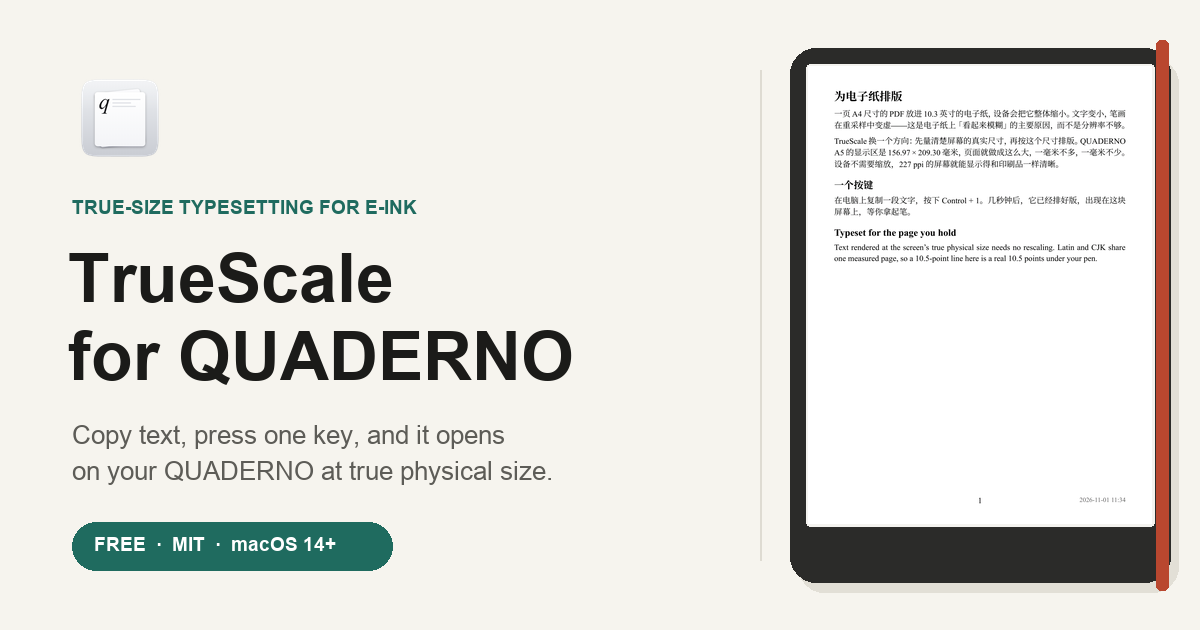
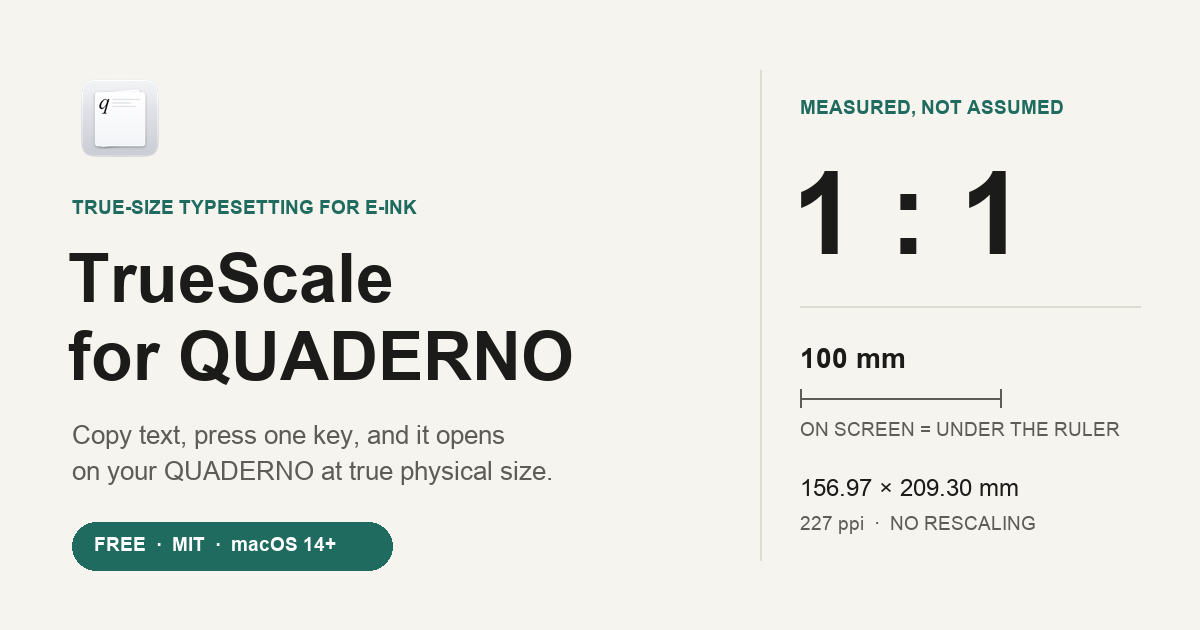
docs(site): 移除 hero 设备位图，首屏改为纯文字单栏
- 删除 figure.device 与 1404x1872 整页缩略图，连带深色粗框、橙红松紧带、重投影
- 三语 hero 清理 alt/caption 死字段；.hero 改单栏，移除 --band 与栅格残留
- og-card 改为纯文字 1:1 度量卡，不再贴缩小截图与设备外壳
- build.py --check 增加防回归断言：DOM 与 CSS 均不得重新出现设备 mockup

Changed region(s): [[0.6475, 0.0603, 0.9867, 0.9349]]

diff --git a/site/assets/site.css b/site/assets/site.css
@@ -10,7 +10,6 @@
   --rule: #dedbd2;
   --accent: #1f6b5f;
   --accent-ink: #ffffff;
-  --band: #b9472f;
   --serif: "Iowan Old Style", "Hiragino Mincho ProN", "Songti SC", Georgia, serif;
   --sans: -apple-system, BlinkMacSystemFont, "PingFang SC", "Hiragino Sans", "Helvetica Neue", sans-serif;
 }
@@ -23,12 +22,11 @@
     --rule: #34352f;
     --accent: #5fb3a3;
     --accent-ink: #0d1412;
-    --band: #e0765d;
   }
 }
 :root[data-theme="dark"] {
   --ground: #171816; --surface: #212220; --ink: #ecebe6; --muted: #a8a69f;
-  --rule: #34352f; --accent: #5fb3a3; --accent-ink: #0d1412; --band: #e0765d;
+  --rule: #34352f; --accent: #5fb3a3; --accent-ink: #0d1412;
 }
 * { box-sizing: border-box; }
 body { margin: 0; background: var(--ground); color: var(--ink); font: 17px/1.65 var(--sans); }
@@ -52,8 +50,8 @@ header { display: flex; align-items: center; justify-content: space-between; pad
 .topnav a { color: var(--muted); text-decoration: none; }
 .topnav a:hover, .topnav a:focus-visible { color: var(--accent); text-decoration: underline; }
 
-.hero { display: grid; grid-template-columns: minmax(0, 1.1fr) minmax(0, 0.9fr); gap: 56px; align-items: center; padding: 48px 0 72px; }
-.hero h1 { font: 600 clamp(36px, 5vw, 56px)/1.12 var(--serif); margin: 0 0 20px; letter-spacing: -0.01em; }
+.hero { max-width: 780px; padding: 80px 0 96px; }
+.hero h1 { font: 600 clamp(36px, 5vw, 56px)/1.12 var(--serif); margin: 0 0 20px; letter-spacing: -0.01em; max-width: 20em; }
 .hero p.lead { font-size: 20px; color: var(--muted); margin: 0 0 32px; max-width: 34em; }
 .flow { display: flex; align-items: center; gap: 10px; flex-wrap: wrap; font-size: 15px; color: var(--muted); margin-bottom: 32px; }
 .key { display: inline-flex; align-items: center; justify-content: center; min-width: 44px; height: 32px; padding: 0 10px;
@@ -65,14 +63,6 @@ header { display: flex; align-items: center; justify-content: space-between; pad
 .button.primary { background: var(--accent); color: var(--accent-ink); }
 .button.secondary { border: 1px solid var(--rule); color: var(--ink); background: var(--surface); }
 .note { font-size: 14px; color: var(--muted); margin-top: 14px; }
-
-.device { justify-self: center; width: min(100%, 380px); background: #2b2b29; padding: 22px 22px 34px; border-radius: 18px;
-  box-shadow: 0 30px 60px -30px rgba(0,0,0,.45); position: relative; }
-/* 松紧带画在右侧边框上，不遮挡屏幕内容。 */
-.device::after { content: ""; position: absolute; right: 4px; top: -6px; bottom: -6px; width: 12px; border-radius: 3px;
-  background: var(--band); opacity: .9; }
-.device img { display: block; width: 100%; height: auto; background: #f4f3ef; border-radius: 3px; }
-.device figcaption { color: #bdbbb4; font-size: 12px; text-align: center; margin-top: 12px; }
 
 section { padding: 64px 0; border-top: 1px solid var(--rule); }
 section h2 { font: 600 clamp(26px, 3.2vw, 34px)/1.25 var(--serif); margin: 0 0 14px; }
@@ -139,7 +129,7 @@ footer p { margin: 6px 0; max-width: 60em; }
   .ways { grid-template-columns: repeat(2, minmax(0, 1fr)); }
 }
 @media (max-width: 860px) {
-  .hero { grid-template-columns: 1fr; gap: 40px; padding-top: 24px; }
+  .hero { padding-top: 32px; padding-bottom: 64px; }
   .features { grid-template-columns: 1fr; }
   .feature { border-right: 0; border-bottom: 1px solid var(--rule); }
   .feature:nth-last-child(-n+3) { border-bottom: 1px solid var(--rule); }

diff --git a/site/ja/index.html b/site/ja/index.html
@@ -185,22 +185,16 @@
 
   <main>
     <div class="hero">
-      <div>
-        <h1>手の中のページのための組版。</h1>
-        <p class="lead">Mac でテキストをコピーしてキーを押すだけで、FUJITSU QUADERNO に表示されます。画面の実寸で組むので、印刷物のようにくっきり読めます。</p>
-        <div class="flow" aria-hidden="true">
-          <span>コピー</span><span>→</span><span class="key">⌃1</span><span>→</span><span>QUADERNO で開く</span>
-        </div>
-        <div class="actions">
-          <a class="button primary" href="https://github.com/leekaomin380/eink-truescale-pdf/releases/latest">Mac 版をダウンロード</a>
-          <a class="button secondary" href="https://github.com/leekaomin380/eink-truescale-pdf">GitHub のソースコード</a>
-        </div>
-        <p class="note">バージョン <span id="version">1.2.2</span> · 無料・オープンソース（MIT）。Apple Silicon、macOS 14 以降。</p>
+      <h1>手の中のページのための組版。</h1>
+      <p class="lead">Mac でテキストをコピーしてキーを押すだけで、FUJITSU QUADERNO に表示されます。画面の実寸で組むので、印刷物のようにくっきり読めます。</p>
+      <div class="flow" aria-hidden="true">
+        <span>コピー</span><span>→</span><span class="key">⌃1</span><span>→</span><span>QUADERNO で開く</span>
       </div>
-      <figure class="device">
-        <img src="../assets/device-page.png" width="1404" height="1872" alt="QUADERNO A5 の画面：実寸で組版された日中英の文書">
-        <figcaption>この App で取り込んだ QUADERNO A5 の実際の画面です。</figcaption>
-      </figure>
+      <div class="actions">
+        <a class="button primary" href="https://github.com/leekaomin380/eink-truescale-pdf/releases/latest">Mac 版をダウンロード</a>
+        <a class="button secondary" href="https://github.com/leekaomin380/eink-truescale-pdf">GitHub のソースコード</a>
+      </div>
+      <p class="note">バージョン <span id="version">1.2.2</span> · 無料・オープンソース（MIT）。Apple Silicon、macOS 14 以降。</p>
     </div>
 
     <section id="why">

diff --git a/site/zh/index.html b/site/zh/index.html
@@ -185,22 +185,16 @@
 
   <main>
     <div class="hero">
-      <div>
-        <h1>为你手中的这一页排版。</h1>
-        <p class="lead">在 Mac 上复制文字，按一个键，它就出现在 FUJITSU QUADERNO 上——按屏幕的真实物理尺寸排版，读起来像印刷品一样清晰。</p>
-        <div class="flow" aria-hidden="true">
-          <span>复制</span><span>→</span><span class="key">⌃1</span><span>→</span><span>在 QUADERNO 上打开</span>
-        </div>
-        <div class="actions">
-          <a class="button primary" href="https://github.com/leekaomin380/eink-truescale-pdf/releases/latest">下载 Mac 版</a>
-          <a class="button secondary" href="https://github.com/leekaomin380/eink-truescale-pdf">GitHub 源代码</a>
-        </div>
-        <p class="note">版本 <span id="version">1.2.2</span> · 免费、开源（MIT）。需要 Apple Silicon 芯片、macOS 14 或更新版本。</p>
+      <h1>为你手中的这一页排版。</h1>
+      <p class="lead">在 Mac 上复制文字，按一个键，它就出现在 FUJITSU QUADERNO 上——按屏幕的真实物理尺寸排版，读起来像印刷品一样清晰。</p>
+      <div class="flow" aria-hidden="true">
+        <span>复制</span><span>→</span><span class="key">⌃1</span><span>→</span><span>在 QUADERNO 上打开</span>
       </div>
-      <figure class="device">
-        <img src="../assets/device-page.png" width="1404" height="1872" alt="QUADERNO A5 屏幕截图：一页按实际尺寸排版的中英文文档">
-        <figcaption>QUADERNO A5 的真实屏幕截图，由本 App 截取。</figcaption>
-      </figure>
+      <div class="actions">
+        <a class="button primary" href="https://github.com/leekaomin380/eink-truescale-pdf/releases/latest">下载 Mac 版</a>
+        <a class="button secondary" href="https://github.com/leekaomin380/eink-truescale-pdf">GitHub 源代码</a>
+      </div>
+      <p class="note">版本 <span id="version">1.2.2</span> · 免费、开源（MIT）。需要 Apple Silicon 芯片、macOS 14 或更新版本。</p>
     </div>
 
     <section id="why">

diff --git a/site/index.html b/site/index.html
@@ -185,22 +185,16 @@
 
   <main>
     <div class="hero">
-      <div>
-        <h1>Typeset for the page you hold.</h1>
-        <p class="lead">Copy text on your Mac, press a key, and it opens on your FUJITSU QUADERNO — laid out at the screen&#x27;s true physical size, so it reads as sharply as print.</p>
-        <div class="flow" aria-hidden="true">
-          <span>Copy</span><span>→</span><span class="key">⌃1</span><span>→</span><span>Open on QUADERNO</span>
-        </div>
-        <div class="actions">
-          <a class="button primary" href="https://github.com/leekaomin380/eink-truescale-pdf/releases/latest">Download for Mac</a>
-          <a class="button secondary" href="https://github.com/leekaomin380/eink-truescale-pdf">Source on GitHub</a>
-        </div>
-        <p class="note">Version <span id="version">1.2.2</span> · Free and open source (MIT). Apple Silicon, macOS 14 or later.</p>
+      <h1>Typeset for the page you hold.</h1>
+      <p class="lead">Copy text on your Mac, press a key, and it opens on your FUJITSU QUADERNO — laid out at the screen&#x27;s true physical size, so it reads as sharply as print.</p>
+      <div class="flow" aria-hidden="true">
+        <span>Copy</span><span>→</span><span class="key">⌃1</span><span>→</span><span>Open on QUADERNO</span>
       </div>
-      <figure class="device">
-        <img src="assets/device-page.png" width="1404" height="1872" alt="QUADERNO A5 screen: a document typeset at true size">
-        <figcaption>An actual screenshot from a QUADERNO A5, taken with the app.</figcaption>
-      </figure>
+      <div class="actions">
+        <a class="button primary" href="https://github.com/leekaomin380/eink-truescale-pdf/releases/latest">Download for Mac</a>
+        <a class="button secondary" href="https://github.com/leekaomin380/eink-truescale-pdf">Source on GitHub</a>
+      </div>
+      <p class="note">Version <span id="version">1.2.2</span> · Free and open source (MIT). Apple Silicon, macOS 14 or later.</p>
     </div>
 
     <section id="why">

diff --git a/site/build.py b/site/build.py
@@ -57,8 +57,6 @@ CONTENT = {
             "copy": "Copy", "open": "Open on QUADERNO",
             "download": "Download for Mac", "source": "Source on GitHub",
             "version": "Version", "note": "Free and open source (MIT). Apple Silicon, macOS 14 or later.",
-            "alt": "QUADERNO A5 screen: a document typeset at true size",
-            "caption": "An actual screenshot from a QUADERNO A5, taken with the app.",
         },
         "why": {
             "title": "Why PDFs look blurry on e-paper",
@@ -216,8 +214,6 @@ CONTENT = {
             "copy": "复制", "open": "在 QUADERNO 上打开",
             "download": "下载 Mac 版", "source": "GitHub 源代码",
             "version": "版本", "note": "免费、开源（MIT）。需要 Apple Silicon 芯片、macOS 14 或更新版本。",
-            "alt": "QUADERNO A5 屏幕截图：一页按实际尺寸排版的中英文文档",
-            "caption": "QUADERNO A5 的真实屏幕截图，由本 App 截取。",
         },
         "why": {
             "title": "为什么 PDF 在电子纸上看起来模糊",
@@ -375,8 +371,6 @@ CONTENT = {
             "copy": "コピー", "open": "QUADERNO で開く",
             "download": "Mac 版をダウンロード", "source": "GitHub のソースコード",
             "version": "バージョン", "note": "無料・オープンソース（MIT）。Apple Silicon、macOS 14 以降。",
-            "alt": "QUADERNO A5 の画面：実寸で組版された日中英の文書",
-            "caption": "この App で取り込んだ QUADERNO A5 の実際の画面です。",
         },
         "why": {
             "title": "電子ペーパーで PDF がぼやける理由",
@@ -597,6 +591,10 @@ def validate_markup(files: dict[Path, str]) -> None:
             problems.append("FAQ count")
         if "data-i18n" in doc:
             problems.append("JS-injected copy survived")
+        if 'class="device"' in doc:
+            problems.append("device mockup is back in the hero")
+        if re.search(r"<img[^>]+device-page\.png", doc):
+            problems.append("device screenshot bitmap is back in the hero")
 
         balance = TagBalance()
         balance.feed(doc)
@@ -637,6 +635,9 @@ def validate_markup(files: dict[Path, str]) -> None:
         raise SystemExit("robots.txt does not advertise the sitemap")
     if not (SITE / "assets" / "og-card.png").exists():
         raise SystemExit("og-card.png missing; run site/make-og-card.py")
+    css = (SITE / "assets" / "site.css").read_text(encoding="utf-8")
+    if "--band" in css or ".device {" in css:
+        raise SystemExit("device mockup styles are back in site.css")
 
 
 def json_ld(lang: str) -> str:
@@ -789,22 +790,16 @@ def render(lang: str) -> str:
 
   <main>
     <div class="hero">
-      <div>
-        <h1>{esc(hero["title"])}</h1>
-        <p class="lead">{esc(hero["lead"])}</p>
-        <div class="flow" aria-hidden="true">
-          <span>{esc(hero["copy"])}</span><span>→</span><span class="key">⌃1</span><span>→</span><span>{esc(hero["open"])}</span>
-        </div>
-        <div class="actions">
-          <a class="button primary" href="{RELEASES}">{esc(hero["download"])}</a>
-          <a class="button secondary" href="{REPO}">{esc(hero["source"])}</a>
-        </div>
-        <p class="note">{esc(hero["version"])} <span id="version">{LATEST}</span> · {esc(hero["note"])}</p>
+      <h1>{esc(hero["title"])}</h1>
+      <p class="lead">{esc(hero["lead"])}</p>
+      <div class="flow" aria-hidden="true">
+        <span>{esc(hero["copy"])}</span><span>→</span><span class="key">⌃1</span><span>→</span><span>{esc(hero["open"])}</span>
       </div>
-      <figure class="device">
-        <img src="{base}assets/device-page.png" width="1404" height="1872" alt="{esc(hero["alt"])}">
-        <figcaption>{esc(hero["caption"])}</figcaption>
-      </figure>
+      <div class="actions">
+        <a class="button primary" href="{RELEASES}">{esc(hero["download"])}</a>
+        <a class="button secondary" href="{REPO}">{esc(hero["source"])}</a>
+      </div>
+      <p class="note">{esc(hero["version"])} <span id="version">{LATEST}</span> · {esc(hero["note"])}</p>
     </div>
 
     <section id="why">

diff --git a/site/make-og-card.py b/site/make-og-card.py
@@ -1,9 +1,9 @@
 #!/usr/bin/env python3
-"""Render the 1200x630 social / search preview card from the existing site assets.
+"""Render the 1200x630 social / search preview card.
 
-Kept as a script rather than a hand-drawn binary so the card can be regenerated
-when the icon or the device screenshot changes. Uses only Pillow and the fonts
-that ship with macOS; no network access.
+Text-only composition: no device mockup, no screenshot bitmap, no dark frame
+or elastic band. Uses only Pillow and the fonts that ship with macOS; no
+network access.
 
     python3 site/make-og-card.py
 """
@@ -20,8 +20,6 @@ INK = "#1b1b19"
 MUTED = "#5d5c57"
 RULE = "#dedbd2"
 ACCENT = "#1f6b5f"
-FRAME = "#2b2b29"
-BAND = "#b9472f"
 
 SUPPLEMENTAL = Path("/System/Library/Fonts/Supplemental")
 BOLD = SUPPLEMENTAL / "Arial Bold.ttf"
@@ -36,7 +34,7 @@ def main() -> None:
     img = Image.new("RGB", (W, H), GROUND)
     draw = ImageDraw.Draw(img)
 
-    # Divider between the copy and the device, using the site's rule colour.
+    # Divider between the copy and the measurement, using the site's rule colour.
     draw.line([(760, 70), (760, 560)], fill=RULE, width=2)
 
     icon = Image.open(ASSETS / "icon.png").convert("RGBA").resize((96, 96), Image.LANCZOS)
@@ -51,23 +49,19 @@ def main() -> None:
     draw.rounded_rectangle([(72, 522), (392, 570)], radius=24, fill=ACCENT)
     draw.text((94, 533), "FREE  ·  MIT  ·  macOS 14+", font=font(BOLD, 19), fill="#ffffff")
 
-    # Device frame: same dark body and right-hand elastic band as the page.
-    frame = (790, 48, 1170, 582)
-    draw.rounded_rectangle([(frame[0] + 8, frame[1] + 10), (frame[2] + 8, frame[3] + 10)],
-                           radius=26, fill="#e2dfd6")
-    draw.rounded_rectangle(frame, radius=26, fill=FRAME)
+    # Right column: a typographic measurement instead of a device illustration.
+    draw.text((800, 96), "MEASURED, NOT ASSUMED", font=font(BOLD, 19), fill=ACCENT)
+    draw.text((792, 148), "1 : 1", font=font(BOLD, 116), fill=INK)
+    draw.line([(800, 306), (1140, 306)], fill=RULE, width=2)
 
-    page = Image.open(ASSETS / "device-page.png").convert("RGB")
-    page_h = 458
-    page_w = round(page.width * page_h / page.height)
-    page = page.resize((page_w, page_h), Image.LANCZOS)
-    page_x = frame[0] + (frame[2] - frame[0] - page_w) // 2
-    page_y = frame[1] + 18
-    draw.rounded_rectangle([(page_x - 2, page_y - 2), (page_x + page_w + 2, page_y + page_h + 2)],
-                           radius=4, fill="#f4f3ef")
-    img.paste(page, (page_x, page_y))
-    draw.rounded_rectangle([(frame[2] - 14, frame[1] - 8), (frame[2] - 2, frame[3] + 8)],
-                           radius=5, fill=BAND)
+    draw.text((800, 342), "100 mm", font=font(BOLD, 28), fill=INK)
+    y = 398
+    draw.line([(800, y), (1000, y)], fill=MUTED, width=2)
+    draw.line([(800, y - 9), (800, y + 9)], fill=MUTED, width=2)
+    draw.line([(1000, y - 9), (1000, y + 9)], fill=MUTED, width=2)
+    draw.text((800, y + 20), "ON SCREEN = UNDER THE RULER", font=font(REGULAR, 19), fill=MUTED)
+    draw.text((800, 474), "156.97 × 209.30 mm", font=font(REGULAR, 24), fill=INK)
+    draw.text((800, 512), "227 ppi  ·  NO RESCALING", font=font(REGULAR, 19), fill=MUTED)
 
     OUT.parent.mkdir(parents=True, exist_ok=True)
     img.save(OUT, optimize=True)
